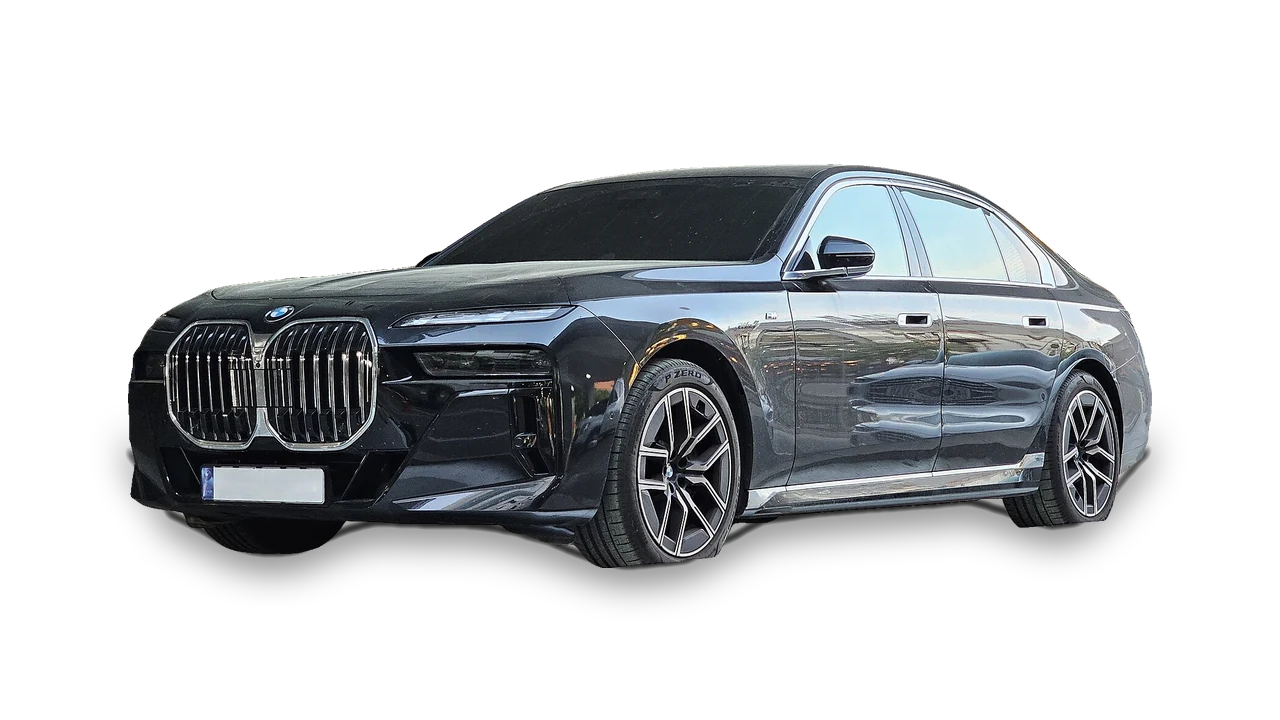
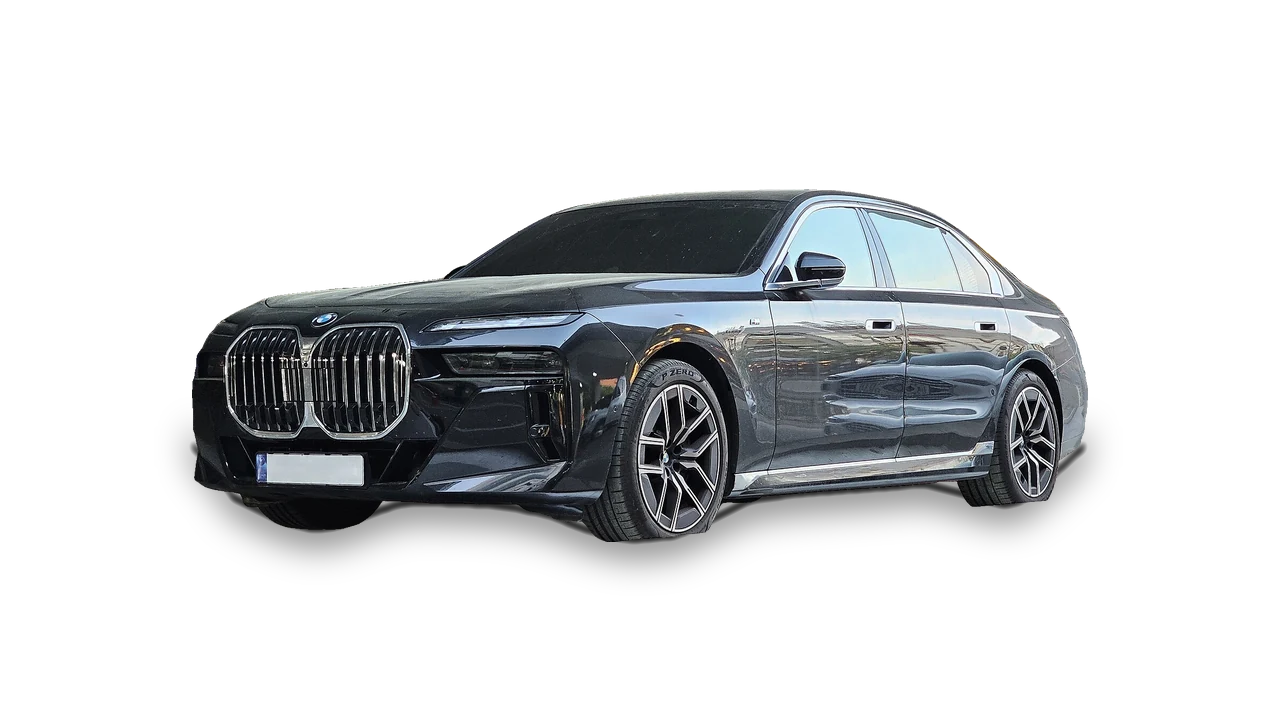
Fotos dos carros um pouco mais pequenas (70% da largura)
Claude-Session: https://claude.ai/code/session_018qbjZHkm8eoEPFpeFo12Mg

Changed region(s): [[0.0938, 0.2139, 0.9062, 0.8556]]

diff --git a/assets/carros/CREDITOS.md b/assets/carros/CREDITOS.md
@@ -1,6 +1,6 @@
 # Créditos das fotos dos carros
 
-Todas as fotos vêm do Wikimedia Commons. Foram alteradas: o fundo foi removido (só fica o carro, em WebP transparente), com uma sombra de contacto por baixo das rodas, e todas têm o mesmo enquadramento em 16:9 (1280 × 720), com o carro a 80% da largura.
+Todas as fotos vêm do Wikimedia Commons. Foram alteradas: o fundo foi removido (só fica o carro, em WebP transparente), com uma sombra de contacto por baixo das rodas, e todas têm o mesmo enquadramento em 16:9 (1280 × 720), com o carro a 70% da largura.
 As licenças CC BY e CC BY-SA exigem o nome do autor e a licença junto da foto; a app mostra-os por baixo do carro.
 
 | Ficheiro | Modelo | Autor | Licença | Original |
